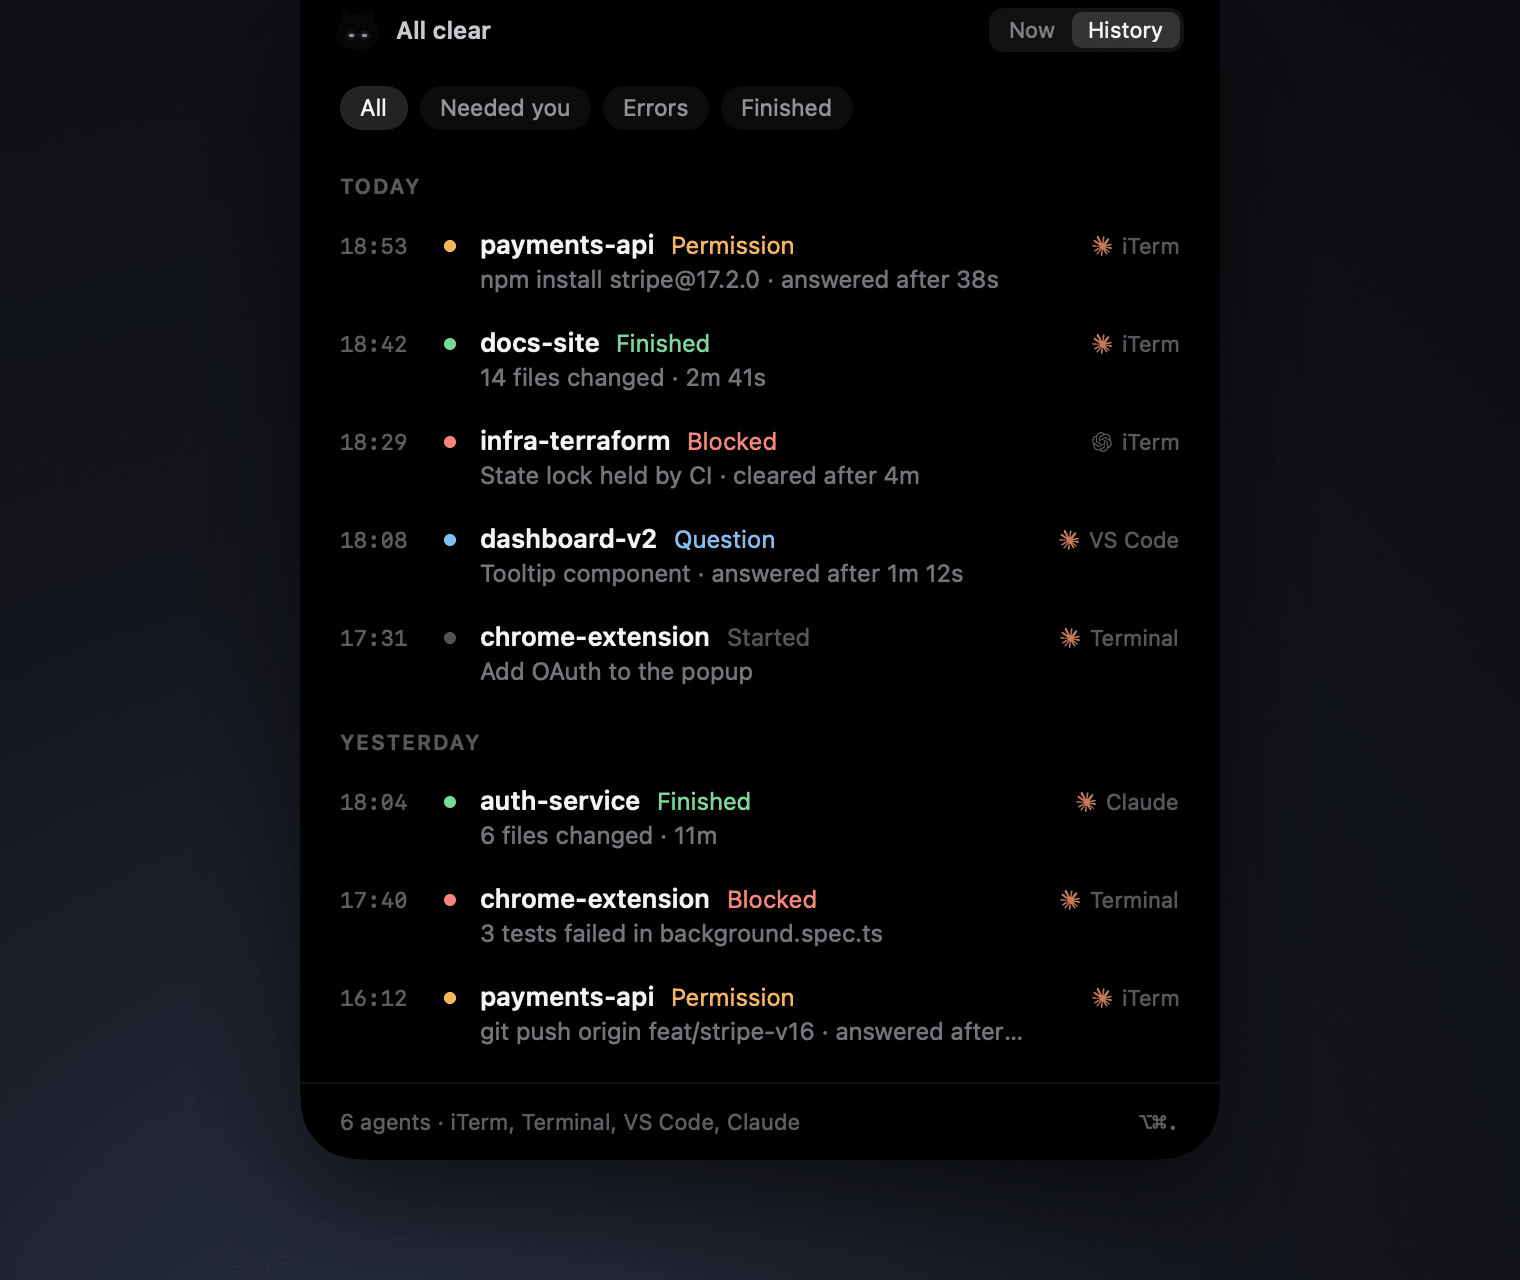
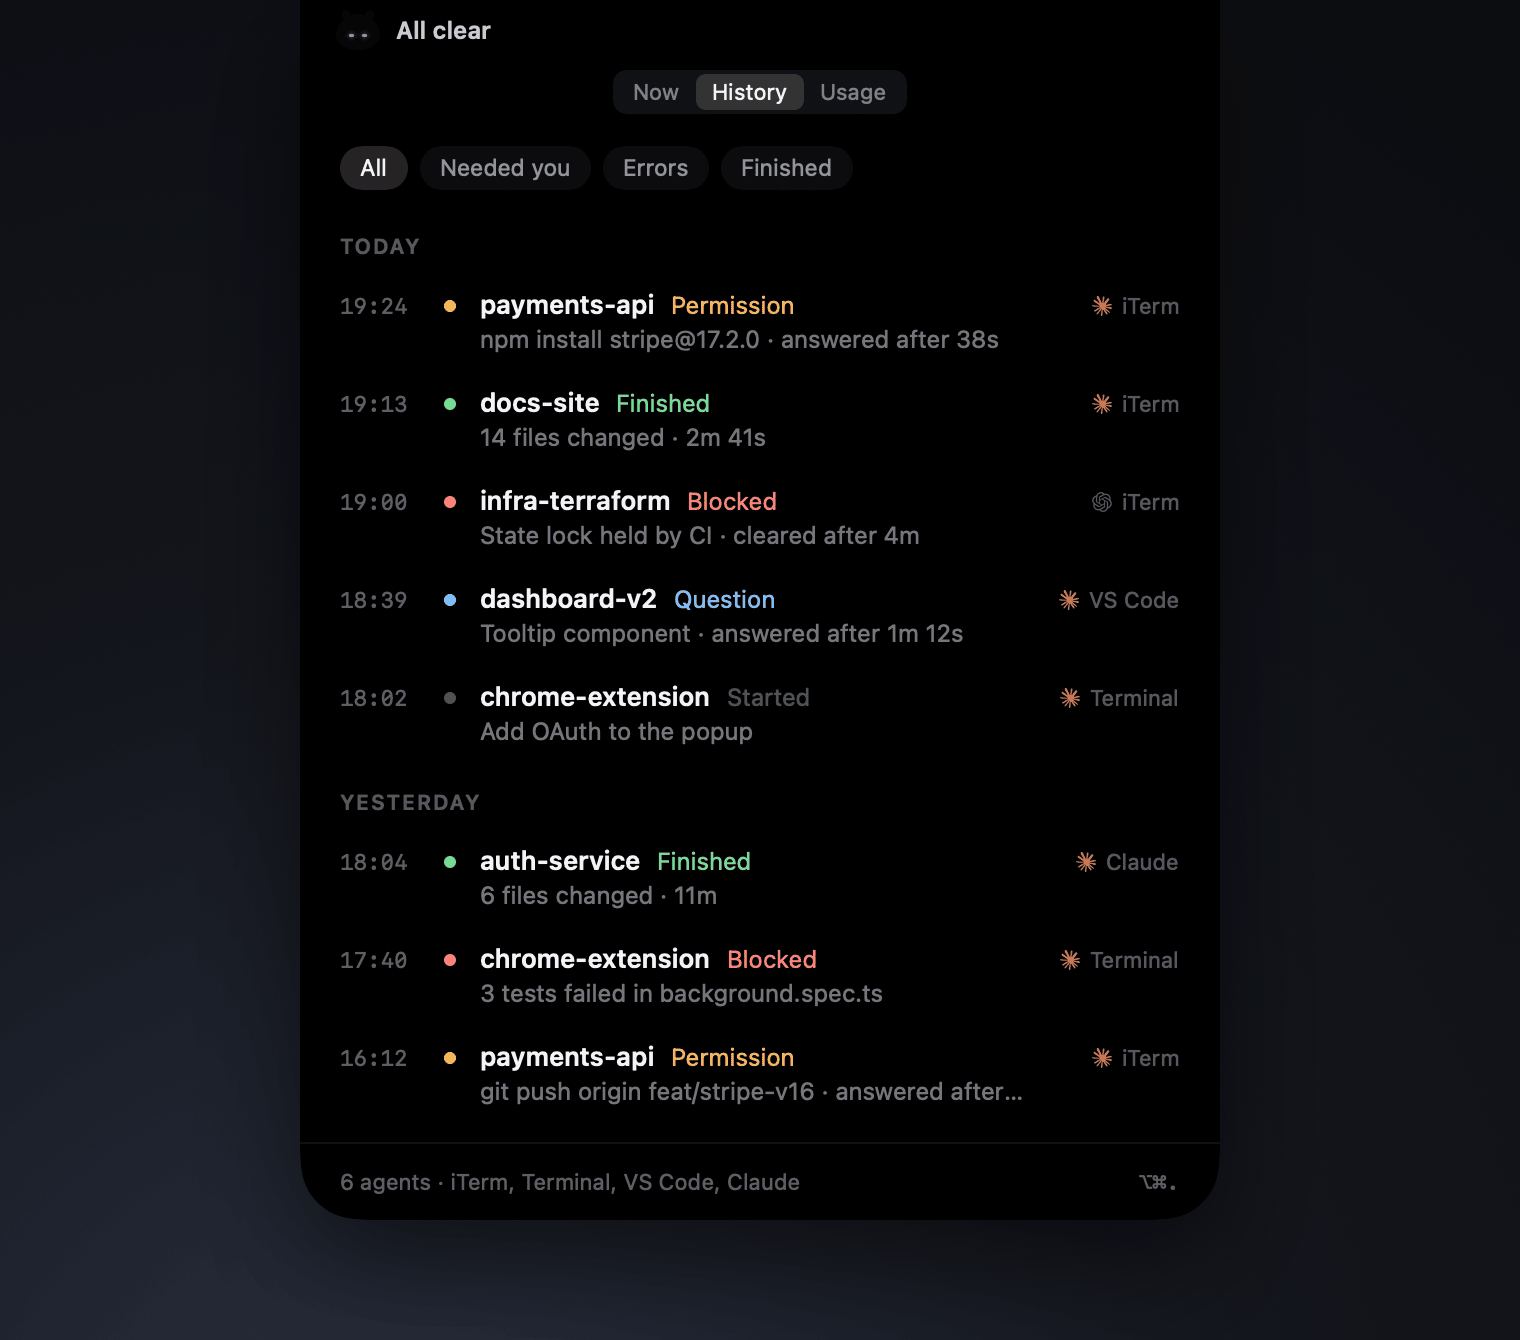
Document the Usage tab

diff --git a/README.md b/README.md
@@ -29,6 +29,7 @@ Pip fixes that. It sits invisibly inside the notch while your agents work. When 
 - **Takes you to the right place.** Opens the precise iTerm tab, Terminal tab or VS Code window, and outlines it with a brief focus ring.
 - **One queue, most urgent first.** Several agents waiting become one list: permission, then questions, then errors, oldest first. Cycle through it with ⌥⌘↓.
 - **Every session at a glance.** Click the notch for a live list of what's waiting, working and finished, plus a week of history. Any row jumps to its session.
+- **Knows how much you have left.** The Usage tab shows how much of your Claude and Codex rate limits you've used (5-hour and weekly) and when each one resets.
 - **Stays out of the way.** Unanswered alerts fold into a small pill. In full screen Pip shrinks to a thin glow, and it goes quiet while Zoom shares your screen or when you ask it to.
 - **Read-only by design.** Pip never types into your terminal and never approves anything. Answers always happen in the real session.
 - **Private.** Everything stays on your Mac. The only network request Pip makes is its update check to GitHub.
@@ -54,6 +55,12 @@ Pip never stacks notifications. One creature, one queue, most urgent first.
   <img src="docs/images/manager.png" width="49%" alt="The session manager: three sessions that need you with their commands and questions, two working, one finished">
   <img src="docs/images/history.png" width="49%" alt="History: today's permission requests with how long they took to answer, a finished run, a cleared error and a new task">
 </p>
+
+### How much you have left
+
+Codex usage shows up with no setup. For Claude, choose **Set Up…** in the Usage tab or Settings (see [How it works](#how-it-works)). Numbers update while a session runs, so each agent says how old its reading is, and a window that has since reset says so rather than showing a stale percentage.
+
+<p align="center"><img src="docs/images/usage.png" width="49%" alt="The Usage tab: Claude Code at 64% of its 5-hour limit, resetting in 2h 13m, and 38% of its weekly limit; Codex on the Plus plan at 91% of its 5-hour limit in red, resetting in 37m, and 22% of its weekly limit"></p>
 
 ### Light mode
 
@@ -105,6 +112,8 @@ Pip combines these sources, all on your Mac:
 2. **Claude Code hooks** say *why* a session is waiting. Setup adds entries to `~/.claude/settings.json` that run Pip's small collector, `pip-hook`, for each event. The collector keeps only what Pip shows (the command, the question and its choices, the error, Claude's summary, and which app and tab the session is in) and drops the rest, including transcripts. Records go into `~/Library/Application Support/Pip/inbox` and are deleted as soon as Pip reads them.
 3. **Codex hooks**, if Codex is installed, work the same way through `~/.codex/hooks.json`. Codex has no session list, so the collector also notes the Codex process, and Pip drops the session when that process ends. Codex runs new hooks only after you trust them: after installing, type `/hooks` in Codex and trust Pip's entries. Pip never does this for you.
 
+4. **Usage.** Codex writes your rate limits into its session logs (`~/.codex/sessions`) after every turn, and Pip reads the latest one. Claude Code shares your limits only with its status line, so to show them Pip asks to become that status line: it sets `statusLine` in `~/.claude/settings.json` to run the collector, which saves the numbers to `~/Library/Application Support/Pip/usage` and prints nothing. If you already have a status line, the collector runs it with the same input, so what you see doesn't change, and Pip puts it back when you remove this. Two limits come from Claude Code: only Claude Code in a terminal runs a status line (not the VS Code extension or the Claude app), and it includes usage only on Pro and Max plans. With any status line set, Claude Code also hides some footer hints, like "esc to interrupt".
+
 The collector only records. It never answers, approves or blocks anything, prints nothing, and always exits immediately, so it can't slow your agent down or change what it does. Your other settings and hooks are left exactly as they were, and your settings file is backed up before any change.
 
 Pip asks macOS for two permissions. **Automation** lets it select the right iTerm or Terminal tab; without it, Open Session can't switch tabs there and points you to the setting. **Accessibility** lets it find the exact window for the focus ring; without it, Pip outlines the app's front window instead.
@@ -125,7 +134,7 @@ Pip asks macOS for two permissions. **Automation** lets it select the right iTer
 
 <p align="center"><img src="docs/images/settings.png" width="360" alt="Pip's settings: appearance, open at login, update checks, notification options, Quiet, which apps to watch, Claude Code hooks and permissions"></p>
 
-**Settings** (menu bar → Settings…) covers appearance, opening at login, update checks, whether alerts fold after 8 seconds, whether finished sessions pop up, Quiet, which apps to watch, hooks and permissions.
+**Settings** (menu bar → Settings…) covers appearance, opening at login, update checks, whether alerts fold after 8 seconds, whether finished sessions pop up, Quiet, which apps to watch, hooks, Claude usage and permissions.
 
 ## Updates
 
@@ -133,7 +142,7 @@ Pip checks for updates once a day through [Sparkle](https://sparkle-project.org)
 
 ## Uninstall
 
-Choose **Uninstall Pip…** from the menu bar or Settings. After you confirm, Pip removes its hooks from `~/.claude/settings.json` (and `~/.codex/hooks.json`), deletes its data in `~/Library/Application Support/Pip`, turns off opening at login, and moves itself to the Trash. Backups Pip made of those files (`….pip-backup-…`) are left next to them.
+Choose **Uninstall Pip…** from the menu bar or Settings. After you confirm, Pip removes its hooks from `~/.claude/settings.json` (and `~/.codex/hooks.json`), puts back the status line you had before if Pip was showing Claude usage, deletes its data in `~/Library/Application Support/Pip`, turns off opening at login, and moves itself to the Trash. Backups Pip made of those files (`….pip-backup-…`) are left next to them.
 
 If you delete Pip.app directly instead, its hooks stay in your Claude (and Codex) settings. They're harmless (the collector stops writing once 10,000 unread events pile up, about 5 MB), but to remove them, reinstall Pip and choose Uninstall, or delete the entries whose command ends in `Application Support/Pip/bin/pip-hook`.
 
@@ -144,6 +153,8 @@ If you delete Pip.app directly instead, its hooks stay in your Claude (and Codex
 **Pip lists a session but doesn't say why it's waiting.** The hooks aren't installed, or the session started before they were. Install them from the menu bar (or Settings → Claude Code); a session that was already running may need a restart before it reports to Pip.
 
 **Pip doesn't see Codex sessions.** Install Codex hooks from the menu bar or Settings, then type `/hooks` in Codex and trust Pip's entries; Codex skips untrusted hooks. Restart any Codex session that was already running.
+
+**The Usage tab doesn't show Claude's numbers.** It says why. *Waiting for Claude Code to run its status line* means no terminal session has run it yet: start or restart Claude Code in iTerm or Terminal (the VS Code extension and the Claude app don't run status lines). *Hasn't included usage* means the status line runs but Claude Code leaves usage out, as it does on plans other than Pro and Max, and in a new session until Claude's first reply.
 
 **Open Session brings the app forward but not the right tab.** Allow Pip under System Settings → Privacy & Security → Automation for iTerm or Terminal.
 
@@ -164,7 +175,7 @@ open build/Pip.app
 ```
 
 ```sh
-swift test                                    # unit tests: queue, phases, hooks, installer, history
+swift test                                    # unit tests: queue, phases, hooks, installer, history, usage
 swift run Pip --snapshot snapshots            # render every state to PNG for checking against the design
 swift run Pip --dump-sessions                 # print the sessions Pip sees right now
 swift run Pip --readme-images docs/images     # re-render the images in this README (then pngquant them)
@@ -176,8 +187,8 @@ PIP_HOME=/tmp/pip swift run Pip               # use a scratch data folder
 
 | Path | What's there |
 |---|---|
-| `Sources/PipKit` | The model, attention queue and phase machine, observation of Claude Code and Codex (inbox, registry, reducer), the hook installer and history. No UI; unit-tested. |
-| `Sources/PipHook` | `pip-hook`, the collector Claude Code and Codex run for each hook event. |
+| `Sources/PipKit` | The model, attention queue and phase machine, observation of Claude Code and Codex (inbox, registry, reducer), the hook and status line installer, history and usage readers. No UI; unit-tested. |
+| `Sources/PipHook` | `pip-hook`, the collector Claude Code and Codex run for each hook event, and Claude Code's status line when Pip shows Claude usage. |
 | `Sources/PipHookSchema` | The inbox record format shared by the collector and the app. |
 | `Sources/Pip` | The app: the notch panel and island, Pip, the views, onboarding, settings and macOS integration. |
 | `Tests/PipKitTests` | Tests for everything in PipKit. |
